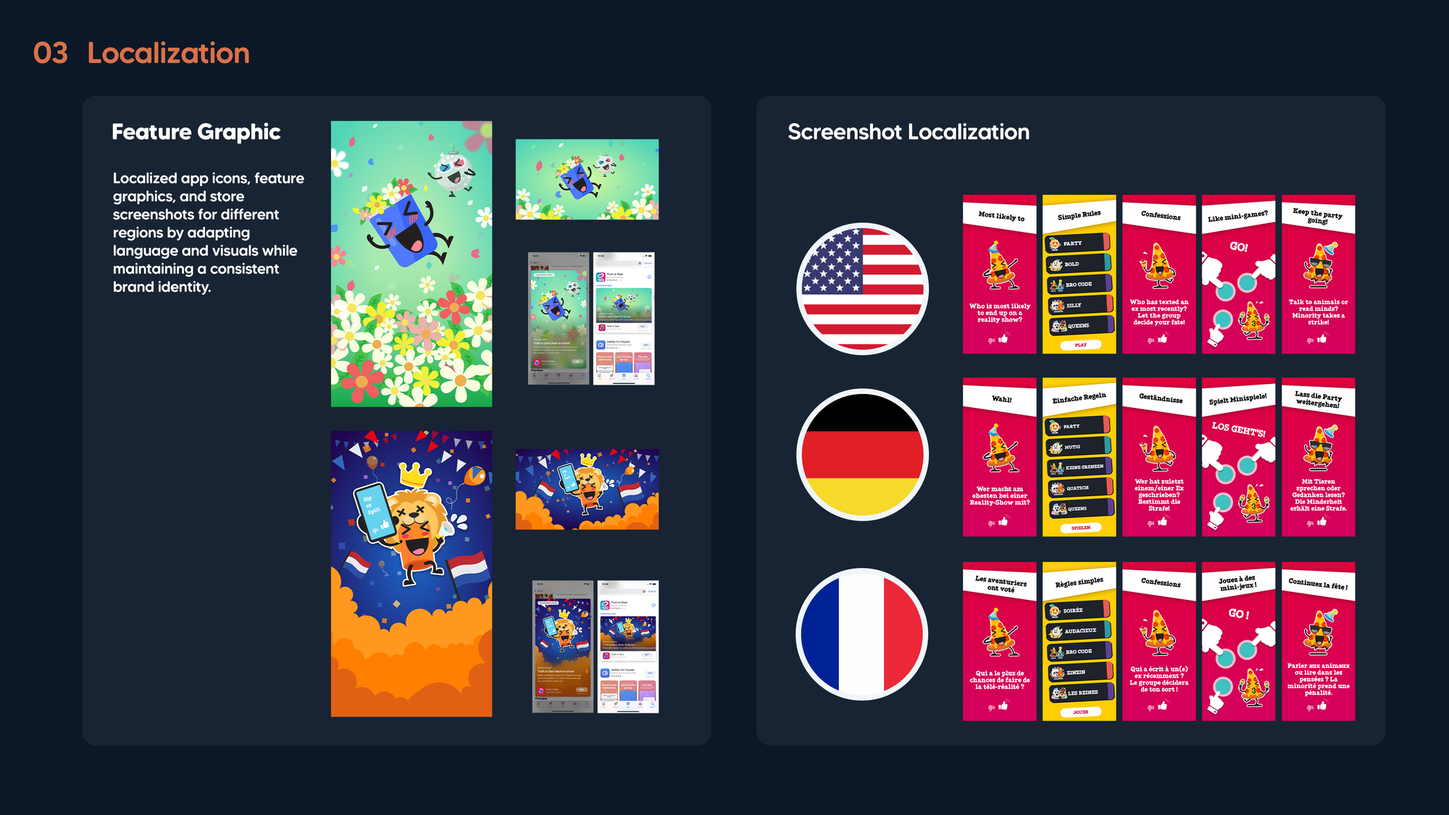
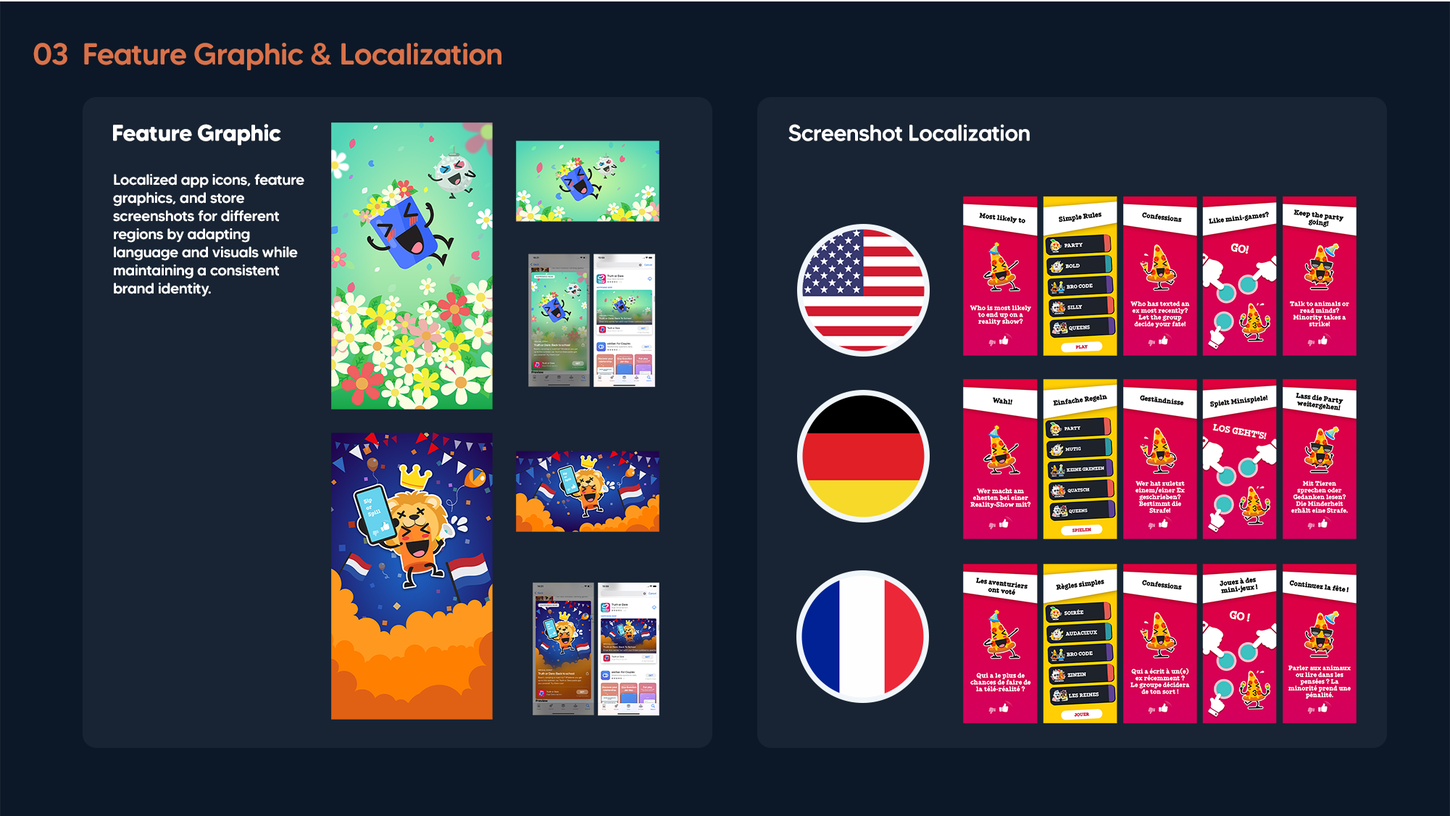
Add ASO localization images and update Drinkopoly gallery

diff --git a/js/data.js b/js/data.js
@@ -174,6 +174,7 @@ const asoData = [
     "images/aso/ASO_2_2.png",
     "images/aso/ASO_2_3.png",
     "images/aso/ASO_2_4.png",
+    "images/aso/ASO_2_5.png",
     ],
   },
   { title: "Additional Apps", tag: "App Icon + Screenshots", desc: "Designed and localized ASO assets across multiple party game titles, maintaining a consistent visual identity while adapting each product to its target audience.",
@@ -183,6 +184,7 @@ const asoData = [
     "images/aso/ASO_3_1.png",
     "images/aso/ASO_3_2.png",
     "images/aso/ASO_3_3.png",
+    "images/aso/ASO_3_4.png",
     ],
   },
 ];

diff --git a/AI-Usage-Log-SmileMigraine.md b/AI-Usage-Log-SmileMigraine.md
@@ -1,0 +1,63 @@
+# AI Usage Log — Smile Migraine UX Task
+ใช้ Claude (Anthropic) ช่วยในกระบวนการทำงาน ตั้งแต่ขั้นวิเคราะห์ปัญหาจนถึงร่างเนื้อหา Process Deck
+(แนบ Screenshot ของแต่ละบทสนทนาด้านล่างประกอบตามจริง)
+
+---
+
+### 1. UX Research — วิเคราะห์ Pain Point และทำ Persona
+**Prompt:** ให้ช่วยวิเคราะห์ pain point ของผู้ป่วยไมเกรนที่เกี่ยวกับจุด Login Wall/Onboarding ในแอป พร้อมร่าง persona คร่าวๆ
+
+**ผลลัพธ์จาก AI:** ได้ persona ตัวอย่าง ("คุณแอน") และ pain point 3 ข้อที่เชื่อมกับอาการไมเกรน (ไวต่อแสง/เสียง, สมองล้า, กังวลเรื่องความเป็นส่วนตัวของข้อมูลสุขภาพ)
+
+**การนำไปใช้:** นำ persona และ pain point มาปรับให้ตรงกับสิ่งที่สังเกตเห็นจริงจากการใช้แอป ไม่ได้ใช้ตามที่ AI ให้มาทั้งหมด แล้วใช้เป็นฐานในการวิเคราะห์ AS-IS Flow ต่อ
+
+---
+
+### 2. การเขียนหลักฐาน AS-IS Flow ให้กระชับและแม่นยำ
+**Prompt:** ให้ช่วยตรวจและปรับข้อความสรุปหลักฐานจากการแกะ Flow (จำนวนหน้าจอ, ปัญหาการรีไดเรกต์ไปหน้าโปรโมชั่น) ให้อ่านง่ายและแม่นยำขึ้น
+
+**ผลลัพธ์จาก AI:** ชี้ให้เห็นประโยคที่ยาวเกินไปและมีข้อความหลงเหลือที่ไม่เกี่ยวข้อง แนะนำให้แยกเป็น 2 ประโยคสั้น พร้อมระบุตัวเลขหน้าจอ 2 เส้นทาง (อีเมล/เบอร์มือถือ) แยกกันให้ชัด
+
+**การนำไปใช้:** ปรับข้อความตามคำแนะนำ ใช้ตัวเลขที่นับได้จริงจากการแกะ Flow เอง (14/10 หน้าจอ) ไม่ได้ให้ AI สร้างตัวเลขขึ้นมาเอง
+
+---
+
+### 3. รีวิว TO-BE Flow หลายรอบ
+**Prompt:** ให้ช่วยตรวจ user flow ที่ออกแบบใหม่ (ตัด Login Wall บังคับ, เพิ่มเส้นทาง AI Chat, จุดที่ต้อง Register) ว่ามีจุดไหนยังไม่สมบูรณ์
+
+**ผลลัพธ์จาก AI:** ชี้จุดที่ยังขาด เช่น ไม่มีเส้นทางสำหรับผู้ใช้เดิมที่ Login wall ฝั่งขวา, ไม่มีเส้นเชื่อม AI Chat ไป Register, ควรกำกับ label เส้นที่วิ่งกลับจาก Register ให้ชัดว่ากลับไปจุดไหน
+
+**การนำไปใช้:** แก้ไดอะแกรมตามจุดที่ชี้ให้ครบ เป็นผู้ตัดสินใจเองว่าจะแก้แบบไหน (เช่น เลือกใช้เส้นประแทนกลุ่มผู้ใช้เดิม, เลือกสีฟ้าแยกเส้นทาง AI Chat)
+
+---
+
+### 4. ออกแบบคำถาม Onboarding แบบย่อ
+**Prompt:** ขอคำถาม 3-4 ข้อที่ช่วยให้ AI chatbot รู้จักอาการผู้ใช้และให้คำแนะนำได้ครอบคลุม สำหรับใช้แทนฟอร์มยาวเดิม
+
+**ผลลัพธ์จาก AI:** เสนอ 4 คำถาม (ความรุนแรง, ความถี่, สิ่งกระตุ้น, การใช้ยา) พร้อมเหตุผลว่าทำไมแต่ละข้อจำเป็น และอ้างอิงกลับไปที่คุณค่าหลักที่โจทย์ระบุไว้
+
+**การนำไปใช้:** ใช้ทั้ง 4 คำถามตามที่เสนอ แล้วออกแบบ UI เองด้วยภาพประกอบการ์ตูนแสดงอาการ ซึ่งเป็นแนวคิดที่คิดเองไม่ได้มาจาก AI
+
+---
+
+### 5. ร่าง Microcopy สำหรับ AI Chatbot (popup ชวนสมัครสมาชิก)
+**Prompt:** ขอตัวอย่างข้อความ AI chatbot ที่ชวนผู้ใช้สมัครสมาชิกแบบไม่บังคับ เนื่องจากไม่มีข้อมูลบันทึกไว้ ในน้ำเสียงหมอสาว
+
+**ผลลัพธ์จาก AI:** ได้ตัวอย่างข้อความ 4 สถานการณ์ (ถามความถี่ที่เพิ่มขึ้น, ถามเรื่องยา, ขอดูสรุปแนวโน้ม, การเตือนทั่วไป) พร้อมปรับเป็นคำลงท้ายค่ะ/นะคะ ตามคาแรกเตอร์ที่กำหนด
+
+**การนำไปใช้:** เลือกใช้บางข้อความ ปรับสำนวนบางจุดให้เข้ากับโทนแบรนด์ และนำไปวางในตำแหน่งที่ออกแบบเองใน wireframe
+
+---
+
+### 6. ร่างเนื้อหา Process Deck
+**Prompt:** ให้ช่วยเรียบเรียงเนื้อหา Process Deck จากบทสรุปที่คุยกันทั้งหมด (ปัญหา, เหตุผล, ทางแก้, ตารางเปรียบเทียบ)
+
+**ผลลัพธ์จาก AI:** ได้โครงเนื้อหาและร่างข้อความฉบับเต็ม
+
+**การนำไปใช้:** ตรวจทาน ปรับถ้อยคำ และเพิ่ม/ตัดเนื้อหาให้ตรงกับสิ่งที่ต้องการนำเสนอก่อนใส่ในเดคจริง
+
+---
+
+**หมายเหตุ:** ทุกการตัดสินใจด้านการออกแบบ (เลือกปัญหาที่จะแก้, โครงสร้าง flow สุดท้าย, การ์ตูนประกอบ, การจัดวาง UI) เป็นการตัดสินใจของผู้ออกแบบเอง AI ทำหน้าที่ช่วยวิเคราะห์ ตรวจทาน และเร่งความเร็วในบางขั้นตอนเท่านั้น
+
+**หมายเหตุเพิ่มเติม:** สำหรับโจทย์นี้ใช้ Claude เป็นเครื่องมือหลักตลอดกระบวนการ แต่ในงานที่ผ่านมามีประสบการณ์ใช้เครื่องมือ AI อื่นด้วยเช่นกัน เช่น ChatGPT และ AI Image Generation (Nano Banana) ผ่าน Figma พร้อมปรับใช้เครื่องมือที่เหมาะสมกับแต่ละสถานการณ์ได้ตามความจำเป็นของงาน

diff --git a/Process-Deck-SmileMigraine.md b/Process-Deck-SmileMigraine.md
@@ -1,0 +1,59 @@
+# Smile Migraine — Process Deck
+## ปรับปรุง UX: Login Wall & Onboarding
+
+---
+
+## หน้า 1 — ปัญหาที่เลือกแก้ และทำไม
+
+### ส่วนที่เลือกปรับปรุง
+**Login Wall และ Onboarding** — จุดแรกที่ผู้ใช้ทุกคนต้องเจอเมื่อเปิดแอปครั้งแรก
+
+### หลักฐาน / ข้อมูล
+จากการแกะ Flow ปัจจุบัน ผู้ใช้ต้องผ่าน **14 หน้าจอ** (สมัครด้วยอีเมล) หรือ **10 หน้าจอ** (สมัครด้วยเบอร์มือถือ) กว่าจะถึงหน้า Homepage
+
+แทนที่จะพาไปสู่คุณค่าหลักที่ผู้ใช้ต้องการ — การติดตามอาการปวด ความรุนแรง ความถี่ สิ่งกระตุ้น การใช้ยา และการเชื่อมต่อแพทย์ผู้เชี่ยวชาญไมเกรนผ่านบริการพบแพทย์ออนไลน์ — Homepage กลับพาผู้ใช้ไปสู่หน้าโปรโมชั่นสินค้าแทน
+
+แม้จะมีหน้า "ผลลัพธ์" ให้หลังตอบแบบสอบถาม แต่เป็นเพียงผลวิเคราะห์จากคำตอบที่กรอกไป ไม่ใช่คุณค่าหลักของแอป (การติดตามอาการต่อเนื่อง/เชื่อมแพทย์) และปุ่มถัดจากนั้นยังพาไปสู่การซื้อสินค้าอีกเช่นกัน
+
+### เกี่ยวข้องกับผู้ใช้กลุ่มนี้อย่างไร
+ผู้ป่วยไมเกรนมักมีอาการไวต่อแสงและเสียง สมองล้าและมีสมาธิจำกัดระหว่างมีอาการ ไม่สามารถกรอกฟอร์มยาว ๆ ได้ อีกทั้งมักเปิดแอปนี้เป็นครั้งแรกตอนกำลังปวดหรือเพิ่งหายปวดใหม่ ๆ — ยิ่งขั้นตอนก่อนถึงคุณค่ายาวเท่าไร โอกาส Drop-off ก็ยิ่งสูงขึ้นเท่านั้น
+
+### เป้าหมายธุรกิจที่เกี่ยวข้อง
+แอปกำลังขยายตลาดไปต่างประเทศ การบังคับสมัครสมาชิกและขอข้อมูลสุขภาพก่อนที่ผู้ใช้จะเห็นคุณค่าหรือเกิดความไว้ใจ อาจเป็นความเสี่ยงเพิ่มขึ้นเมื่อขยายไปตลาดที่มีมาตรฐานความเป็นส่วนตัวด้านสุขภาพเข้มงวด
+
+---
+
+## หน้า 2 — แนวทางการแก้ไข (TO-BE)
+
+### หลักการออกแบบ
+**ให้ผู้ใช้เห็นคุณค่าก่อน ค่อยขอสมัครสมาชิก** แทนที่จะบังคับสมัครก่อนเห็นอะไรเลย
+
+### สิ่งที่เปลี่ยน
+
+1. **ตัด Login Wall แบบบังคับออก** — ผู้ใช้ใหม่เข้าสู่ Onboarding ได้ทันทีจาก Splash Screen ผู้ใช้เดิมมีทางลัดล็อกอินตรงเข้า Home ได้โดยไม่ต้องผ่าน Onboarding ซ้ำ
+
+2. **ย่อ Onboarding จากฟอร์มยาวเหลือ 4 คำถามแตะเลือก** พร้อมภาพประกอบการ์ตูนแสดงอาการ (ลดการอ่าน เข้าใจง่ายแม้ตอนไม่สบาย):
+   - ระดับความปวดตอนนี้ (เลือกจากหน้าตาการ์ตูน)
+   - ความถี่ของอาการปวดหัว
+   - สิ่งกระตุ้นที่มักทำให้ปวดหัว
+   - การใช้ยาแก้ปวดหัวในปัจจุบัน
+   - มีปุ่มข้ามได้จากทุกหน้าคำถาม ไปหน้า Home ได้ทันที
+
+3. **หน้าผลลัพธ์เชื่อมต่อ AI Chat แทนหน้าร้านค้า** — หลังตอบคำถาม ผู้ใช้เห็นสรุปสั้น ๆ พร้อมปุ่มหลัก "คุยกับ AI เพื่อคำแนะนำเพิ่มเติม" แทนปุ่ม "เข้าชมสินค้า" เดิม
+
+4. **AI Chat ใช้งานได้ฟรีทันทีโดยไม่ต้องสมัครสมาชิก** — AI ตอบคำถามทั่วไปให้เสมอ ไม่บล็อกการใช้งาน แต่จะแสดง popup ชวนสมัครสมาชิกแบบไม่บังคับ เฉพาะตอนที่ AI ขาดข้อมูลสำคัญที่จำเป็นต้องรู้ (เช่น ประวัติอาการย้อนหลัง หรือรายการยาที่ใช้) เพื่อให้การชวนสมัครมีเหตุผลรองรับ ไม่ใช่การรบกวน
+
+5. **ฟีเจอร์ที่ต้องเก็บข้อมูลระยะยาว** (รายงาน / บันทึก / คลับ) ยังคงต้องสมัครสมาชิกก่อนใช้งาน เนื่องจากจำเป็นต้องผูกกับบัญชีเพื่อบันทึกและติดตามข้อมูลต่อเนื่อง
+
+6. **ข้อมูลที่กรอกก่อนสมัครสมาชิกจะไม่หาย** — เก็บไว้ชั่วคราวและ merge เข้าบัญชีเมื่อผู้ใช้สมัครสมาชิกภายหลัง รวมถึงหากสมัครสมาชิกจาก popup ในหน้าแชท จะกลับเข้าสู่บทสนทนาเดิมต่อได้ทันที ไม่ต้องเริ่มใหม่
+
+### เปรียบเทียบก่อน-หลัง
+
+| | AS-IS (เดิม) | TO-BE (ใหม่) |
+|---|---|---|
+| หน้าจอก่อนถึง Home | 10-14 หน้า | 0 หน้า (ข้ามได้ทุกจุด) |
+| คุณค่าแรกที่ผู้ใช้เห็น | หน้าโปรโมชั่นสินค้า | AI Chat ให้คำปรึกษาได้ทันที |
+| การสมัครสมาชิก | บังคับก่อนใช้งานทุกฟีเจอร์ | ขอเฉพาะฟีเจอร์ที่ต้องเก็บข้อมูลระยะยาว และมีเหตุผลรองรับชัดเจน |
+
+### ขอบเขตของงาน
+งานชิ้นนี้ปรับเฉพาะส่วน Login Wall, Onboarding และการเพิ่มฟีเจอร์ในแชทบอท ตามที่ระบุปัญหาไว้ข้างต้น หน้า Home Page และส่วนอื่นของแอปอยู่นอกขอบเขตของงานนี้ ไม่ได้ทำการปรับแก้

diff --git a/เตรียมสัมภาษณ์-vbreathe.md b/เตรียมสัมภาษณ์-vbreathe.md
@@ -1,0 +1,50 @@
+# เตรียมสัมภาษณ์ — vbreathe (Lead UX/UI Designer, Mobile)
+
+## รู้จักบริษัทก่อน (จากเว็บ vbreathe.com)
+
+vbreathe เป็นแบรนด์เครื่องฟอกอากาศจากออสเตรเลีย ขายตรงถึงผู้บริโภค (D2C) สินค้าหลักคือ **EnviroGuard PRO X** ใช้ 2 เทคโนโลยีคู่กัน:
+- **Purox Gel** — ปล่อยไอ H2O2 ออกซิไดซ์เชื้อโรค/มลพิษทั่วห้อง ไม่ใช่แค่รอให้อากาศไหลผ่านไส้กรอง
+- **PrimeProtect Filter** — ไส้กรอง HEPA-13 4 ชั้น
+
+**โมเดลธุรกิจเป็นแบบ subscription** — มีแพ็กเกจ "ProCare" ส่งเจล/ไส้กรองใหม่ให้อัตโนมัติทุก 6 เดือน จุดขายหลักของแบรนด์คือ "ความน่าเชื่อถือทางวิทยาศาสตร์" เน้นผลทดสอบจากแล็บ ตัวเลขชัดเจน (99.99% ฆ่าเชื้อใน 30 นาที ฯลฯ)
+
+ตำแหน่งที่สมัครคือ Lead UX/UI **Mobile** แต่เว็บหลักเป็น e-commerce — สันนิษฐานได้ว่าน่าจะมีหรือกำลังจะทำ **แอปคู่หูสำหรับควบคุมเครื่อง/ดูค่าคุณภาพอากาศ/จัดการ subscription** ทีมทำงานอยู่เชียงใหม่ แต่สินค้าขายที่ออสเตรเลีย — เป็นทีมออกแบบข้ามวัฒนธรรม ต้องเข้าใจผู้ใช้ต่างชาติ ตรงกับที่โจทย์เน้นภาษาอังกฤษดีมาก
+
+---
+
+## คำถามที่น่าจะเจอ และแนวทางตอบ
+
+### 1. "เล่าประสบการณ์ mobile UI/UX ของคุณหน่อย"
+พูดถึงงาน 5 ปีที่ Greentomato Media (UI เกม, ASO, localization) แล้วเชื่อมโยงว่าทักษะ visual hierarchy/attention to detail ที่ฝึกมาจากงาน ASO (ต้องสื่อสารเร็วในพื้นที่จำกัด) นำมาใช้กับ mobile UI ได้โดยตรง
+
+### 2. "อธิบายกระบวนการออกแบบของคุณตั้งแต่ต้นจนจบ"
+ใช้โครงที่ฝึกมา: วิเคราะห์ pain point/persona → แกะ AS-IS flow หาหลักฐาน → ออกแบบ TO-BE flow → wireframe → UI พร้อมยกตัวอย่างเคสที่เพิ่งฝึก (ถ้าจบกระบวนการกับที่อื่นแล้วค่อยพูดถึงชื่อเคสได้เต็มที่)
+
+### 3. "ตำแหน่งนี้คือ Lead ต้องตัดสินใจ UX เองโดยไม่มี UX researcher คอยป้อนโจทย์ให้ คุณมั่นใจแค่ไหน"
+**จุดนี้คือจุดที่ต้องตอบอย่างมีสติที่สุด** เพราะเป็น gap จริงเทียบกับงานเดิม (ที่ผ่านมารับ spec จาก UX designer มาทำ UI ต่อ) แนะนำตอบตรงๆ ว่านี่คือทิศทางที่กำลังพัฒนาตัวเองอยู่ พร้อมยกตัวอย่างวิธีคิดที่ใช้จริง เช่น เริ่มจากตั้งสมมติฐานจากข้อมูล/พฤติกรรมผู้ใช้ที่สังเกตได้ ทดสอบด้วย wireframe ง่ายๆ ก่อนลงมือทำจริง ไม่ต้องอ้างว่าเชี่ยวชาญเต็มร้อย แต่ต้องแสดงว่ามีกระบวนการคิดที่เป็นระบบรองรับ
+
+### 4. "ถ้าให้ออกแบบแอปคู่หูสำหรับเครื่องฟอกอากาศของเรา จะเน้นอะไรก่อน"
+คำถามเชิงสถานการณ์ที่น่าจะเจอเพราะตรงกับสินค้าจริงของบริษัท ลองคิดล่วงหน้า:
+- หน้าจอแสดงคุณภาพอากาศแบบเรียลไทม์ ให้เข้าใจง่ายแม้ไม่มีความรู้ด้านเทคนิค (ตรงกับจุดแข็งเรื่องสื่อสารซับซ้อนให้เข้าใจง่ายจากงาน ASO)
+- การแจ้งเตือนเปลี่ยนไส้กรอง/เจล ผูกกับรอบ subscription 6 เดือน ลด churn
+- Onboarding จับคู่อุปกรณ์ผ่าน Bluetooth/WiFi ให้ลื่นไหล ไม่ใช่จุดที่ user เลิกกลางทาง
+- จัดการ subscription ในแอปได้เอง ลดภาระ customer support
+
+### 5. "ทำงานร่วมกับ Graphic Designer ที่ทำงานภาพอย่างใกล้ชิด คุณมีวิธีสื่อสารกับทีมยังไง"
+พูดถึงประสบการณ์ทำงานร่วมกับ ASO specialist, Unity developer, PM ที่ Greentomato — วิธีรับ feedback และสื่อสารเหตุผลของงานออกแบบ
+
+### 6. "ทำงานภายใต้ความกดดัน/deadline ได้ดีแค่ไหน"
+อุตสาหกรรมเกมที่ผ่านมามี cycle เร็ว ปรับ A/B test บ่อย — ใช้เป็นตัวอย่างได้
+
+---
+
+## คำถามที่ควรถามกลับ (แสดงว่าคิดมาจริง)
+- "ตอนนี้แอปมือถือของบริษัทอยู่ในช่วงเริ่มต้นออกแบบใหม่ หรือมีอยู่แล้วและต้องการปรับปรุง"
+- "ทีมออกแบบตอนนี้มีใครอยู่บ้าง ทำงานร่วมกับทีม product/engineer ที่ออสเตรเลียยังไง (remote/async)"
+- "ตัวชี้วัดความสำเร็จของงานออกแบบในบทบาทนี้คืออะไร"
+
+---
+
+## ข้อควรระวัง
+- ภาษาอังกฤษต้องพร้อมพูดสด เตรียมซ้อมพูดคำตอบข้อ 1-4 เป็นภาษาอังกฤษไว้ล่วงหน้า ไม่ใช่แค่คิดเป็นไทยแล้วแปลสด
+- ห้ามพูดถึงเคส Smile Migraine แบบระบุชื่อจนกว่าจะจบกระบวนการกับที่นั่นก่อน (ตามที่ตกลงไว้)

diff --git a/จดหมายสมัครงาน-2D-Character-Designer.md b/จดหมายสมัครงาน-2D-Character-Designer.md
@@ -1,0 +1,28 @@
+# จดหมายสมัครงาน — 2D Character Designer (Freelance)
+สาย Avatar Item Design
+
+---
+
+เรียน ทีมสรรหาบุคลากร แผนกมัลติมีเดีย
+
+ผม รัตนะ วัฒนธาษตรี (Rattana Watthanathattri) ขอสมัครงานตำแหน่ง 2D Character Designer (Freelance) ในส่วนงาน **Avatar Item Design** ครับ
+
+ปัจจุบันผมทำงานเป็นนักออกแบบกราฟิกในอุตสาหกรรม Mobile Application และเกมมือถือมากว่า 5 ปี รับผิดชอบงานออกแบบ UI, App Store Optimization (ASO) และ Asset ภายในเกม ทำงานร่วมกับทีม Unity Developer และ Product Manager อย่างใกล้ชิดมาโดยตลอด ทำให้คุ้นเคยกับกระบวนการทำงานแบบมืออาชีพ การรับบรีฟ การส่งมอบงานตามสเปกและไทม์ไลน์ที่ชัดเจน
+
+นอกเหนือจากงานประจำ ผมมีความรักในงานออกแบบคาแรคเตอร์แนวอนิเมะและแฟนตาซีเป็นการส่วนตัว และสะสมผลงานไว้อย่างต่อเนื่องกว่า 69 ชิ้นที่ ArtStation:
+**https://www.artstation.com/johnnystark**
+
+ผลงานครอบคลุมการออกแบบคาแรคเตอร์ ชุดแต่งกาย เครื่องประดับ อาวุธ และสิ่งมีชีวิตแฟนตาซี ในหลากหลายสไตล์ ซึ่งตรงกับลักษณะงาน Avatar Item Design ที่ต้องออกแบบไอเทมให้กับตัวคาแรคเตอร์ในเกมโซเชียล
+
+นอกจากนี้ ในเว็บพอร์ตโฟลิโอหลักของผม (**https://johnneeza2538-hub.github.io/portfolio/**) หมวด Game UI มีผลงานคาแรคเตอร์ที่ใช้งานจริงในแอปที่เปิดให้บริการแล้ว ได้แก่ภาพประกอบคาแรคเตอร์สำหรับไอคอนแอปและอีเวนต์ในเกม (โปรเจกต์ Drinkin) และระบบคาแรคเตอร์แบบเวกเตอร์ที่สลับชิ้นส่วนได้ (โปรเจกต์ Drinkopoly) ซึ่งเป็นแนวคิดเดียวกับงาน Avatar Item Design โดยตรง
+
+ด้านเครื่องมือ ผมใช้ Adobe Photoshop และ Illustrator ในการออกแบบคาแรคเตอร์เป็นประจำอยู่แล้วในงานปัจจุบัน และมีความสนใจพัฒนาเพิ่มเติมด้าน Animate CC สำหรับงานอนิเมชั่นโดยเฉพาะ
+
+หมายเหตุ: ผมขอสมัครเฉพาะสาย Avatar Item Design เนื่องจากยังไม่มีผลงาน Pixel Art สำหรับเกมญี่ปุ่นโดยตรงครับ
+
+หากสนใจ ผมยินดีส่งพอร์ตโฟลิโอเพิ่มเติมหรือนัดพูดคุยรายละเอียดเพิ่มเติมครับ
+
+ขอบคุณครับ
+รัตนะ วัฒนธาษตรี
+อีเมล: rattana_wat@hotmail.com
+เบอร์โทร: [ใส่เบอร์โทร]

diff --git a/จดหมายสมัครงาน-ครูศิลปะเด็ก.md b/จดหมายสมัครงาน-ครูศิลปะเด็ก.md
@@ -1,0 +1,21 @@
+# จดหมายสมัครงาน — ตำแหน่งงานศิลปะ/กิจกรรมสำหรับเด็ก
+[ระบุตำแหน่งและชื่อสถาบันตรงนี้]
+
+---
+
+เรียน ฝ่ายบุคคล [ชื่อสถาบัน]
+
+ผม รัตนะ วัฒนธาษตรี ขอสมัครตำแหน่ง [ชื่อตำแหน่ง] ที่ประกาศรับสมัครไว้ครับ
+
+ผมทำงานเป็นนักออกแบบกราฟิกมากว่า 5 ปี ในสายงาน Mobile Application และเกม รับผิดชอบงานออกแบบภาพ สร้างสรรค์ Asset และ Illustration หลากหลายรูปแบบมาโดยตลอด ทำให้มีพื้นฐานความคิดสร้างสรรค์และความช่างสังเกตด้านภาพที่นำมาปรับใช้กับงาน DIY และงานหัตถศิลป์ได้ดี นอกจากนี้ผมทำงานร่วมกับบริษัทต่างชาติมาตลอด 5 ปี จึงไม่มีปัญหาเรื่องความแตกต่างทางวัฒนธรรมและการสื่อสาร ปรับตัวเข้ากับสภาพแวดล้อมที่หลากหลายได้ดี และมีผลสอบ HSK4 (แม้จะสอบไว้เมื่อ 5 ปีก่อนและไม่ได้ใช้งานต่อเนื่อง) พอมีพื้นฐานภาษาจีนติดตัวอยู่บ้าง
+
+เหตุผลที่ผมสนใจงานนี้เป็นพิเศษ เพราะผมเติบโตมาจากบ้านเด็กกำพร้า ทำให้เข้าใจโลกของเด็กในแบบที่ลึกซึ้ง และอยากส่งต่อสิ่งดี ๆ ผ่านงานสร้างสรรค์ให้กับเด็ก ๆ อีกครั้งในบทบาทของผู้ใหญ่ ผมเชื่อว่าประสบการณ์ตรงนี้ช่วยให้ผมเข้าใจและรับมือกับเด็กได้อย่างเป็นธรรมชาติ
+
+แม้ผมจะไม่มีประสบการณ์ตรงในการเป็นครูศิลปะมาก่อน แต่ผมพร้อมเรียนรู้และปรับตัว และมองว่างานนี้เป็นก้าวสำคัญที่จะช่วยสะสมประสบการณ์ด้านการสอนและการจัดกิจกรรม ซึ่งเป็นทิศทางที่ผมตั้งใจพัฒนาตัวเองต่อไปในระยะยาว (มีเป้าหมายอยากเป็นอาจารย์ในอนาคต)
+
+ผมสามารถเริ่มงานได้ทันที และยินดีนำตัวอย่างผลงานด้านความคิดสร้างสรรค์มาให้พิจารณาเพิ่มเติมหากต้องการครับ
+
+ขอบคุณครับ
+รัตนะ วัฒนธาษตรี
+อีเมล: rattana_wat@hotmail.com
+เบอร์โทร: [ใส่เบอร์โทร]

diff --git a/อีเมลส่งงาน-SmileMigraine.md b/อีเมลส่งงาน-SmileMigraine.md
@@ -1,0 +1,24 @@
+หัวข้อ: ส่งงานแบบทดสอบ ตำแหน่ง Junior UI/UX Designer — รัตนะ วัฒนธาษตรี
+
+---
+
+เรียน ทีมสรรหาบุคลากร บริษัท สไมล์ ไมเกรน จำกัด
+
+ผม รัตนะ วัฒนธาษตรี ขอส่งคำตอบแบบทดสอบประกอบการสัมภาษณ์งาน ตำแหน่ง Junior UI/UX Designer ตามที่ได้รับโจทย์มาครับ
+
+**สิ่งที่แนบมา**
+
+1. Figma Link (User Flow, Wireframe, UI Design): [ใส่ลิงก์ Figma]
+2. Process Deck: แนบไฟล์มาพร้อมนี้
+3. AI Usage Log: แนบไฟล์มาพร้อมนี้
+
+**สรุปแนวคิดโดยย่อ**
+
+ผมเลือกปรับปรุงส่วน Login Wall และ Onboarding เนื่องจากเป็นจุดแรกที่ผู้ใช้ทุกคนต้องเจอ และพบว่าผู้ใช้ต้องผ่านถึง 10-14 หน้าจอก่อนจะถึงคุณค่าหลักของแอป จึงออกแบบใหม่ให้ผู้ใช้เข้าถึงคุณค่า (ผ่าน AI Chat) ได้เร็วขึ้น โดยลดขั้นตอนบังคับสมัครสมาชิกก่อนใช้งาน และขอสมัครสมาชิกเฉพาะเมื่อมีเหตุผลรองรับชัดเจนเท่านั้น รายละเอียดเหตุผลและกระบวนการคิดทั้งหมดอยู่ใน Process Deck ที่แนบมาครับ
+
+หากมีข้อสงสัยหรือต้องการข้อมูลเพิ่มเติม ยินดีชี้แจงเพิ่มเติมครับ
+
+ขอบคุณครับ
+รัตนะ วัฒนธาษตรี
+อีเมล: rattana_wat@hotmail.com
+เบอร์โทร: [ใส่เบอร์โทร]

diff --git a/คีย์เวิร์ดสัมภาษณ์-vbreathe.md b/คีย์เวิร์ดสัมภาษณ์-vbreathe.md
@@ -1,0 +1,37 @@
+# คีย์เวิร์ดสัมภาษณ์ vbreathe (ดูสั้นๆ พอ ไม่อ่านเต็มประโยค)
+
+### Q1 — Self-intro
+5 yrs @ **Greentomato Media** → graphic / UI / ASO designer
+Early: assets, video app preview (VAP)
+**Grand Solitaire**: UI + splash screen + 20+ game maps
+Then: shift → portfolio strategy, 3-4 small apps/quarter (Drinkopoly, Most Likely To, Would You Rather, Couple Games, 5 Second Rule)
+
+### Q2 — Design process
+understand problem first (not jump to Figma)
+real example: A/B test data + **ASO** team feedback → adjust design
+UX/UI: **pain point + persona** → **AS-IS flow** (find real problem) → **TO-BE flow** (solution) → **wireframe** → UI
+
+### Q3 — Lead / UX ownership
+honest: mostly executed UI from UX spec
+BUT: contributed once — feature paywall timing decision, team used input
+now: practicing full process myself
+close: not 100% expert day one, but real experience + structured process
+
+### Q4 — Product scenario (air purifier app)
+air quality dashboard — simple, non-technical wording
+filter / gel replacement reminders → ties to subscription, reduce churn
+onboarding: device pairing (Bluetooth/WiFi) smooth, low friction
+subscription self-management in-app
+
+### Q5 — Team collaboration
+worked w/ ASO specialist, Unity dev, PM @ Greentomato
+explain reasoning behind decisions, take feedback constructively
+
+### Q6 — Pressure / deadline
+game industry = fast cycles, frequent A/B iteration
+(have 1 concrete example ready if asked further)
+
+### Questions to ask them
+- app: new build or existing redesign?
+- team structure — remote work w/ Australia team, sync/async?
+- success metrics for this role?
